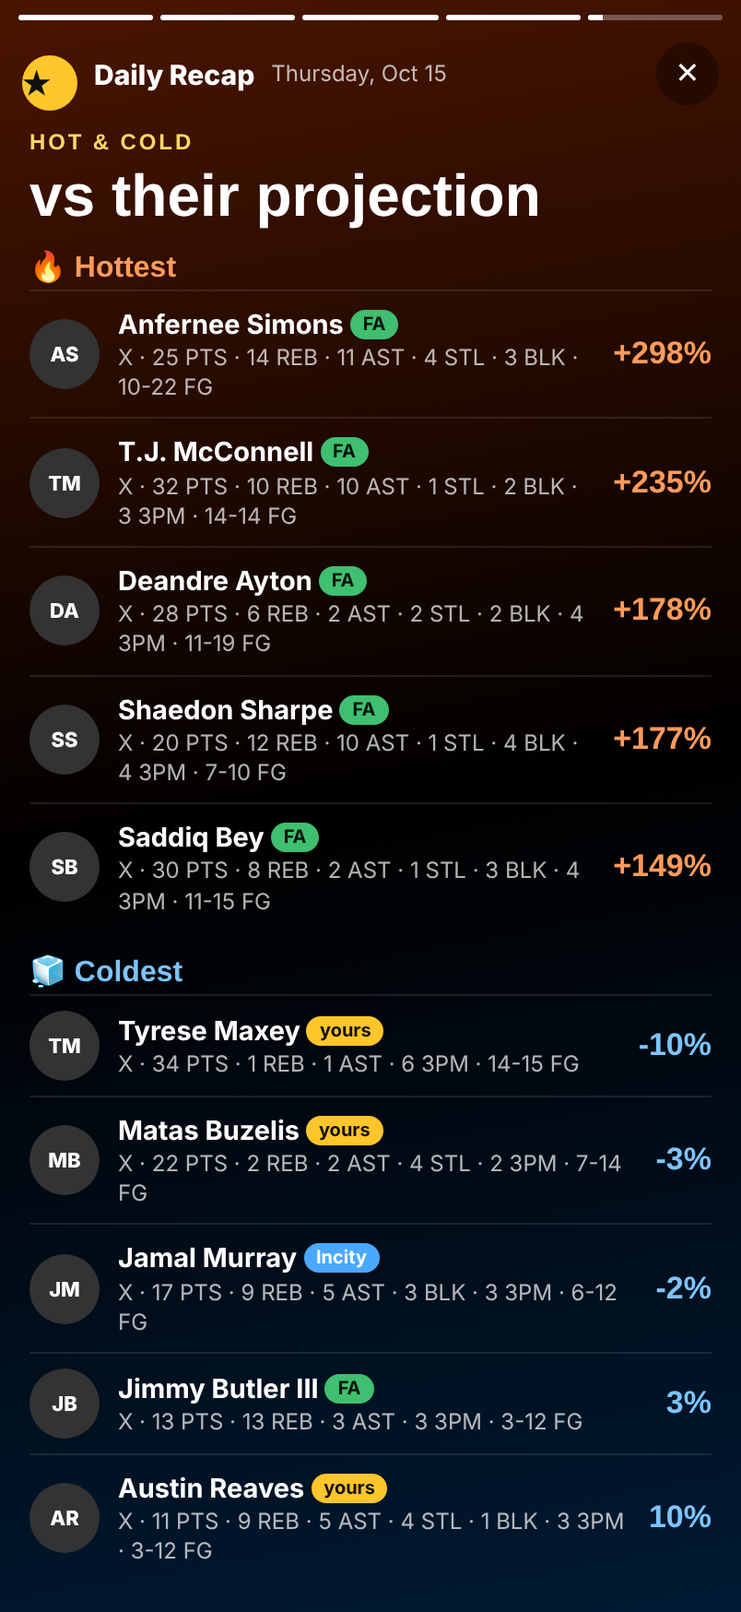
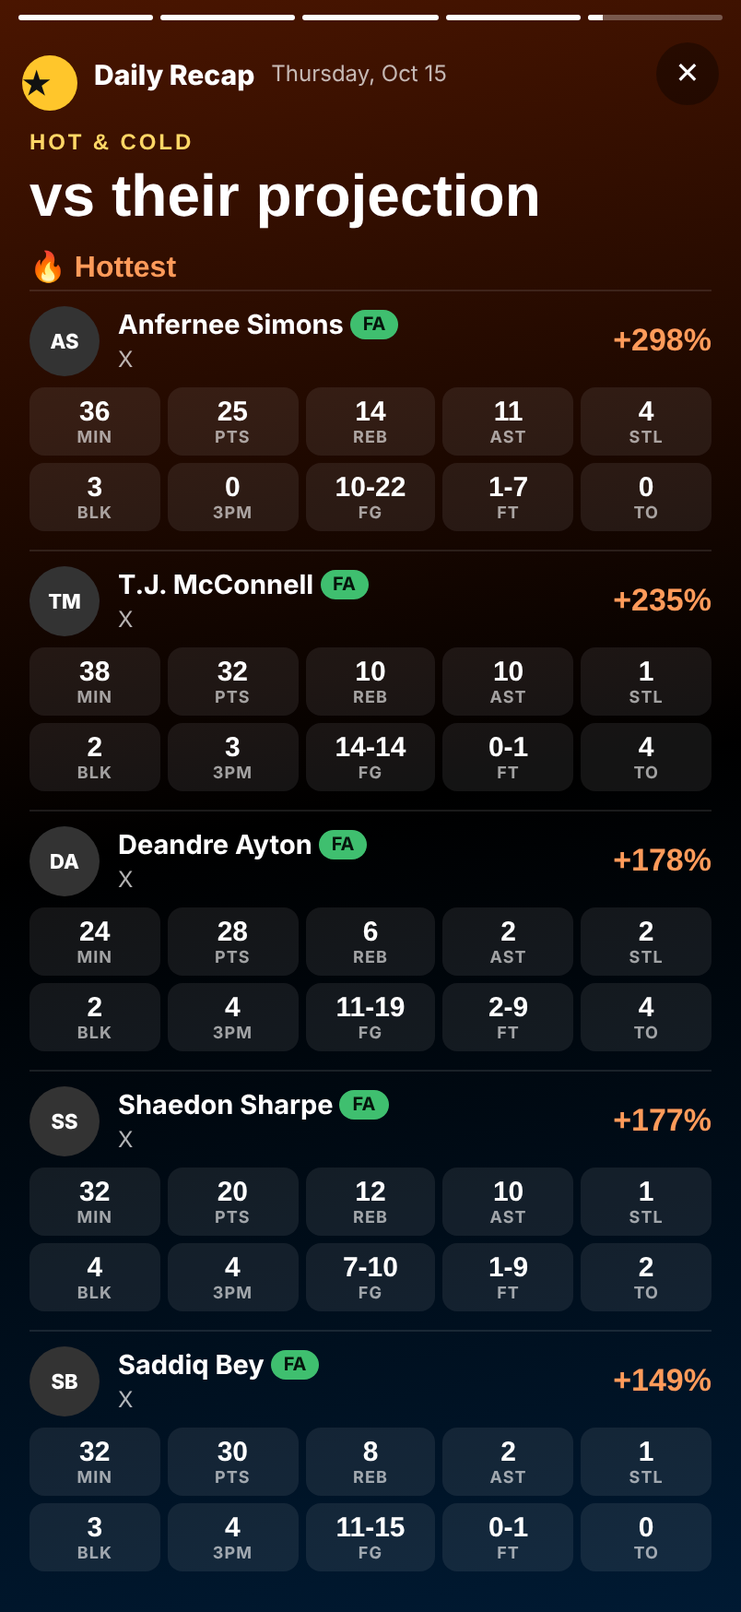
Stories stat grids; NBA top performers photos + rank; leaders full stat lines
Claude-Session: https://claude.ai/code/session_01Bze7554zYTgci3mfzKEDgc

diff --git a/classic.html b/classic.html
@@ -1252,6 +1252,37 @@ html body .hdstk.fphd .fphtabs button{font-size:13.5px!important}
 #fphc .nhlr b{font:700 16px system-ui;flex:1;min-width:0;white-space:nowrap;overflow:hidden;text-overflow:ellipsis}#fphc .nhlr small{color:#8e9096;font-size:12px}
 #fphc .nhlr .v{font:900 20px "Roboto Condensed",sans-serif;min-width:36px;text-align:right}
 #fphc .nhlr.me b{color:#ffd766}#fphc .nhlr.op b{color:#9fd0ff}
+#fpsv .spr2{border-top:1px solid rgba(255,255,255,.1);padding:8px 0 10px}
+#fpsv .spr2 .spr{border-top:0;padding:0 0 6px}
+#fpsv .sgr{display:grid;grid-template-columns:repeat(5,minmax(0,1fr));gap:4px}
+#fpsv .sgr.p{grid-template-columns:repeat(4,minmax(0,1fr))}
+#fpsv .sgr div{background:rgba(255,255,255,.08);border-radius:8px;padding:5px 2px 4px;text-align:center}
+#fpsv .sgr b{display:block;font:800 15px "Roboto Condensed",sans-serif;font-variant-numeric:tabular-nums;color:#fff}
+#fpsv .sgr small{display:block;font:700 9px system-ui;letter-spacing:.06em;color:rgba(255,255,255,.6)}
+#fpsv .sgr div.on{background:rgba(255,198,43,.25);box-shadow:inset 0 0 0 1px rgba(255,198,43,.6)}#fpsv .sgr div.on b{color:#ffd766}
+#fpsv .sgl{font:800 10.5px system-ui;letter-spacing:.08em;text-transform:uppercase;color:rgba(255,255,255,.6);margin:8px 0 4px}#fpsv .sgl.y{color:#ffd766}
+#fpsv .cv{font:900 24px "Roboto Condensed",sans-serif;color:#ffd766}
+#fpsv .scc .spr2:first-of-type{border-top:0}
+#fphc .nht .pn{display:flex;align-items:center;gap:7px;min-width:0}
+#fphc .nht .pn .rk{font:700 12px system-ui;font-style:normal;color:#8e9096;width:16px;flex:none;text-align:left}
+#fphc .nht .pn img,#fphc .nht .pn i{width:30px;height:30px;border-radius:50%;object-fit:cover;object-position:top;background:#2a2b30;flex:none}
+#fphc .nht .pn .nm{min-width:0;overflow:hidden;text-overflow:ellipsis;text-align:left}
+#fphc .nht .hr span:first-child{padding-left:53px}
+#fphc .nhlr{align-items:flex-start}#fphc .nhlr .k{padding-top:8px}
+#fphc .nhlr .m{flex:1;min-width:0}
+#fphc .nhlr .m>b{display:block;font:700 16px system-ui;white-space:nowrap;overflow:hidden;text-overflow:ellipsis}
+#fphc .nhlr .m>b small{font:500 12px system-ui;color:#8e9096;margin-left:4px}
+#fphc .nhlr .ls{display:flex;flex-wrap:wrap;gap:3px 9px;margin-top:4px;font:600 10px system-ui;color:#8e9096;letter-spacing:.02em}
+#fphc .nhlr .ls b{font:700 13px "Roboto Condensed",sans-serif;color:#d6d7db;margin-right:2px;font-variant-numeric:tabular-nums}
+#fphc .nhlr .ls .on,#fphc .nhlr .ls .on b{color:#ffc62b}
+#fphc .nhlr .v{padding-top:4px}
+#fphc .nht .hr,#fphc .nht .tr{grid-template-columns:minmax(0,1fr) repeat(6,25px) 44px;column-gap:3px}
+#fphc .nht .pn{position:relative;gap:6px;padding-left:2px}
+#fphc .nht .pn .rk{position:absolute;left:-3px;top:-4px;z-index:1;width:auto;min-width:15px;height:15px;line-height:15px;border-radius:8px;padding:0 3px;background:#ffc62b;color:#111;font:800 9.5px system-ui;text-align:center;box-shadow:0 0 0 2px #141416}
+#fphc .nht .pn img,#fphc .nht .pn i{width:28px;height:28px}
+#fphc .nht .pn .nm{font-size:13.5px}
+#fphc .nht .hr span:first-child{padding-left:36px}
+#fphc .nht .pn{overflow:visible}#fphc .nht .pn .nm small{text-align:left}
 </style>
 <div class="stage">
  <aside class="side"><h1>Fantasy Plus <span>for iPhone</span></h1><p>Design of the iPhone app. Tap around, it all works: the tabs, the players, the trade builder.</p><ul><li><b>Home</b>: score, last night, this week's review, category ranks, waivers. Tap the score for the full game.</li><li><b>Team</b>: roster and player cards</li><li><b>Matchup</b>: ESPN-style category table with our ball logic</li><li><b>More</b>: rankings and settings</li><li><b>Trades</b>: your market and the builder</li></ul><p>Numbers are a snapshot of your Anti-Quemo league (preseason projections). Photos show as initials here; the app uses real headshots.</p><p>On your phone, open this link directly and it fills the screen.</p></aside>
@@ -2061,9 +2092,11 @@ async function loadNight(){
 }
 function getData(){if(DATA)return Promise.resolve(DATA);if(!LOADING)LOADING=loadNight().then(d=>(DATA=d)).catch(()=>({empty:true}));return LOADING}
 const line=r=>[`${r.PTS} PTS`,`${r.REB} REB`,`${r.AST} AST`,r.STL?`${r.STL} STL`:"",r.BLK?`${r.BLK} BLK`:"",r["3PM"]?`${r["3PM"]} 3PM`:"",`${r.FGM}-${r.FGA} FG`].filter(Boolean).join(" · ");
+const grid=(r,hl)=>`<div class="sgr">${[["MIN",r.MIN],["PTS",r.PTS],["REB",r.REB],["AST",r.AST],["STL",r.STL],["BLK",r.BLK],["3PM",r["3PM"]],["FG",r.FGM+"-"+r.FGA],["FT",r.FTM+"-"+r.FTA],["TO",r.TO]].map(([k,v])=>`<div class="${k===hl?"on":""}"><b>${v}</b><small>${k}</small></div>`).join("")}</div>`;
+const pgrid=(pl)=>`<div class="sgr p">${[["PTS",pl.PTS],["REB",pl.REB],["AST",pl.AST],["STL",pl.STL],["BLK",pl.BLK],["3PM",pl["3PM"]],["FG%",pl["FG%"]!=null?String((+pl["FG%"]).toFixed(3)).replace(/^0/,""):"–"],["FT%",pl["FT%"]!=null?String((+pl["FT%"]).toFixed(3)).replace(/^0/,""):"–"]].map(([k,v])=>`<div><b>${v??"–"}</b><small>${k}</small></div>`).join("")}</div>`;
 const tag=(r,X)=>r.own===X.my?'<span class="sst me">yours</span>':r.own===X.opp?`<span class="sst op">${esc((HDX.D.opp||"").split(" ")[0])}</span>`:r.own?"":'<span class="sst fa">FA</span>';
 const pimg=(r,s=38)=>`<span class="spi" style="width:${s}px;height:${s}px;background:${tcol(r.t)[0]}">${ph(r.id)?`<img src="${ph(r.id)}" alt="" onerror="this.remove()">`:""}<i>${esc(r.n.split(" ").map(w=>w[0]).join("").slice(0,2))}</i></span>`;
-const prow=(r,X,i,extra)=>`<div class="spr">${i!=null?`<b class="k">${i+1}</b>`:""}${pimg(r)}<div class="m"><b>${esc(r.n)} ${tag(r,X)}</b><small>${esc(r.t)} · ${line(r)}</small></div>${extra||`<span class="fv">${r.fv.toFixed(1)}</span>`}</div>`;
+const prow=(r,X,i,extra,hl)=>`<div class="spr2"><div class="spr">${i!=null?`<b class="k">${i+1}</b>`:""}${pimg(r)}<div class="m"><b>${esc(r.n)} ${tag(r,X)}</b><small>${esc(r.t)}</small></div>${extra||`<span class="fv">${r.fv.toFixed(1)}</span>`}</div>${grid(r,hl)}</div>`;
 const dayLabel=d=>{const x=new Date(d.slice(0,4)+"-"+d.slice(4,6)+"-"+d.slice(6)+"T12:00");return x.toLocaleDateString("en-US",{weekday:"long",month:"short",day:"numeric"})};
 // ---------- slides ----------
 function recapSlides(X){const D=HDX.D,mine=X.all.filter(r=>r.own===X.my),opp=X.all.filter(r=>r.own===X.opp);
@@ -2078,20 +2111,20 @@ function recapSlides(X){const D=HDX.D,mine=X.all.filter(r=>r.own===X.my),opp=X.a
  S.push({bg:"linear-gradient(170deg,#1f2a44,#000 75%)",h:`<div class="scap">Around the league</div><div class="sbig">Who had the best night</div><div class="ssub">Fantasy output of every team's players last night</div>${teams.map((x,i)=>`<div class="slg ${x.t.id===X.my?"me":x.t.id===X.opp?"op":""}"><b class="k">${i+1}</b><div class="m"><b>${esc(x.t.name)}</b><small>${x.b.n} played${x.b.best?` · best: ${esc(last(x.b.best.n))} ${x.b.best.fv.toFixed(1)}`:""}</small><div class="bar"><i style="width:${x.b.fv/mx*100}%"></i></div></div><span class="fv">${x.b.fv.toFixed(1)}</span></div>`).join("")}`});
  const top=[...X.all].sort((a,b)=>b.fv-a.fv).slice(0,10);
  S.push({bg:"radial-gradient(circle at 50% 0,#3a2a00,#000 65%)",h:`<div class="scap">Top 10 of the night</div><div class="sbig">${esc(top[0]?top[0].n:"")}</div><div class="ssub">${top[0]?line(top[0]):""}</div>${top.map((r,i)=>prow(r,X,i)).join("")}`});
- S.push({bg:"linear-gradient(170deg,#2b1a4a,#000 75%)",h:`<div class="scap">Category leaders</div><div class="sbig">Who owned each stat</div><div class="scats">${CNT.map(c=>{const t=[...X.all].sort((a,b)=>b[c]-a[c]).slice(0,3);return `<div class="scc"><div class="cc">${c}</div>${t.map((r,i)=>`<div class="sccr ${r.own===X.my?"me":r.own===X.opp?"op":""}"><span>${i+1}</span>${pimg(r,26)}<div class="m"><b>${esc(last(r.n))}</b><small>${line(r)}</small></div><b class="v">${r[c]}</b></div>`).join("")}</div>`}).join("")}</div>`});
+ S.push({bg:"linear-gradient(170deg,#2b1a4a,#000 75%)",h:`<div class="scap">Category leaders</div><div class="sbig">Who owned each stat</div><div class="scats">${CNT.map(c=>{const t=[...X.all].sort((a,b)=>b[c]-a[c]).slice(0,3);return `<div class="scc"><div class="cc">${c}</div>${t.map((r,i)=>prow(r,X,i,`<b class="cv">${r[c]}</b>`,c)).join("")}</div>`}).join("")}</div>`});
  const withP=X.all.filter(r=>r.hot!=null&&r.MIN>=10),hot=[...withP].sort((a,b)=>b.hot-a.hot).slice(0,5),cold=[...withP].sort((a,b)=>a.hot-b.hot).slice(0,5);
  S.push({bg:"linear-gradient(170deg,#4a1500,#000 50%,#001a33)",h:`<div class="scap">Hot & cold</div><div class="sbig">vs their projection</div><div class="shc h">🔥 Hottest</div>${hot.map(r=>prow(r,X,null,`<span class="pct up">+${r.hot}%</span>`)).join("")||'<p class="sno">No projections to compare yet.</p>'}<div class="shc c">🧊 Coldest</div>${cold.map(r=>prow(r,X,null,`<span class="pct dn">${r.hot}%</span>`)).join("")}`});
  return S}
 function waiverSlides(X){const D=HDX.D,fa=X.all.filter(r=>!r.own),S=[];
  const top=[...fa].sort((a,b)=>b.fv-a.fv).slice(0,10);
  S.push({bg:"linear-gradient(170deg,#0b3d23,#000 75%)",h:`<div class="scap">Waiver watch · ${esc(dayLabel(X.day))}</div><div class="sbig">Top 10 free agents last night</div><div class="ssub">Not on any team in your league</div>${top.map((r,i)=>prow(r,X,i)).join("")||'<p class="sno">No free agents played.</p>'}`});
- S.push({bg:"linear-gradient(170deg,#0d3340,#000 75%)",h:`<div class="scap">Free-agent leaders</div><div class="sbig">Best available by stat</div><div class="scats">${CNT.map(c=>{const t=[...fa].sort((a,b)=>b[c]-a[c]).slice(0,3);return `<div class="scc"><div class="cc">${c}</div>${t.map((r,i)=>`<div class="sccr"><span>${i+1}</span>${pimg(r,26)}<div class="m"><b>${esc(last(r.n))}</b><small>${line(r)}</small></div><b class="v">${r[c]}</b></div>`).join("")}</div>`}).join("")}</div>`});
+ S.push({bg:"linear-gradient(170deg,#0d3340,#000 75%)",h:`<div class="scap">Free-agent leaders</div><div class="sbig">Best available by stat</div><div class="scats">${CNT.map(c=>{const t=[...fa].sort((a,b)=>b[c]-a[c]).slice(0,3);return `<div class="scc"><div class="cc">${c}</div>${t.map((r,i)=>prow(r,X,i,`<b class="cv">${r[c]}</b>`,c)).join("")}</div>`}).join("")}</div>`});
  const hot=fa.filter(r=>r.hot!=null&&r.MIN>=10).sort((a,b)=>b.hot-a.hot).slice(0,6);
  S.push({bg:"linear-gradient(170deg,#4a2a00,#000 75%)",h:`<div class="scap">Breakouts</div><div class="sbig">Free agents way above projection</div><div class="ssub">Played much better than expected. Worth a look before others notice.</div>${hot.map(r=>prow(r,X,null,`<span class="pct up">+${r.hot}%</span>`)).join("")||'<p class="sno">No free-agent breakouts last night.</p>'}`});
  const P=(D.M||{}).probs||{},lose=CATS.filter(c=>P[c]!=null&&P[c]<.5).sort((a,b)=>P[a]-P[b]).slice(0,4);
  const recs=lose.map(c=>{const L=Object.entries(X.wz).filter(([id])=>!X.owner[id]).map(([id,w])=>({id,...w,zc:(w.z||{})[c]||0})).sort((a,b)=>b.zc-a.zc).slice(0,3);return {c,L}});
  const byId={};X.all.forEach(r=>byId[r.id]=r);
- S.push({bg:"linear-gradient(115deg,#7B5236,#000 60%)",h:`<div class="scap">Good for your matchup</div><div class="sbig">${lose.length?`Fix ${lose.join(", ")}`:"You're ahead everywhere"}</div><div class="ssub">Categories you're behind in vs ${esc(D.opp)}, with 3 free agents for each</div>${recs.map(g=>`<div class="srec"><div class="cc">${g.c} <span>${Math.round((P[g.c]||0)*100)}% to win</span></div>${g.L.map(p=>{const pl=p.line||{},ln=byId[p.id];return `<div class="spr">${pimg({id:p.id,n:p.name||"",t:p.nba},34)}<div class="m"><b>${esc(p.name)} <span class="sst fa">${p.own!=null?p.own+"%":"FA"}</span></b><small>${esc(p.nba||"")} · proj ${pl.PTS??"–"} PTS · ${pl.REB??"–"} REB · ${pl.AST??"–"} AST · ${pl.STL??"–"} STL · ${pl.BLK??"–"} BLK · ${pl["3PM"]??"–"} 3PM</small>${ln?`<small class="ln">last night: ${line(ln)}</small>`:""}</div><span class="fv">${g.c.endsWith("%")?(pl[g.c]!=null?String(pl[g.c].toFixed(3)).replace(/^0/,""):"–"):(pl[g.c]??"–")}</span></div>`}).join("")}</div>`).join("")}`});
+ S.push({bg:"linear-gradient(115deg,#7B5236,#000 60%)",h:`<div class="scap">Good for your matchup</div><div class="sbig">${lose.length?`Fix ${lose.join(", ")}`:"You're ahead everywhere"}</div><div class="ssub">Categories you're behind in vs ${esc(D.opp)}, with 3 free agents for each</div>${recs.map(g=>`<div class="srec"><div class="cc">${g.c} <span>${Math.round((P[g.c]||0)*100)}% to win</span></div>${g.L.map(p=>{const pl=p.line||{},ln=byId[p.id];return `<div class="spr">${pimg({id:p.id,n:p.name||"",t:p.nba},34)}<div class="m"><b>${esc(p.name)} <span class="sst fa">${p.own!=null?p.own+"%":"FA"}</span></b><small>${esc(p.nba||"")}</small></div><span class="fv">${g.c.endsWith("%")?(pl[g.c]!=null?String(pl[g.c].toFixed(3)).replace(/^0/,""):"–"):(pl[g.c]??"–")}</span></div><div class="sgl">Projection per game</div>${pgrid(pl)}${ln?`<div class="sgl y">Last night</div>${grid(ln,g.c==="FG%"?"FG":g.c==="FT%"?"FT":g.c)}`:""}`}).join("")}</div>`).join("")}`});
  return S}
 // ---------- viewer ----------
 let V=null;
@@ -2142,7 +2175,7 @@ let DOFF=-1,GOPEN=true;const BX={};
 const dname=o=>{const d=new Date(Date.now()-4*3600e3+o*864e5);const w=d.toLocaleDateString("en-US",{timeZone:"UTC",weekday:"short",month:"short",day:"numeric"}).replace(",","");return (o===-1?"Yesterday":o===0?"Today":o===1?"Tomorrow":w.split(" ")[0])+" · "+w};
 async function box(id){if(BX[id])return BX[id];const j=await (await fetch(`${SITE}/summary?event=${id}`)).json();const out=[];
  ((j.boxscore||{}).players||[]).forEach(t=>{const ab=(t.team||{}).abbreviation;(t.statistics||[]).forEach(sg=>{const k=sg.keys||[];(sg.athletes||[]).forEach(a=>{if(!a.stats||!a.stats.length||a.didNotPlay)return;const v=n=>{const i=k.indexOf(n);return i<0?0:a.stats[i]};const sp=x=>String(x||"0-0").split("-").map(Number);
-  const r={id:String((a.athlete||{}).id||""),n:(a.athlete||{}).displayName||"",t:ab,PTS:+v("points")||0,REB:+v("rebounds")||0,AST:+v("assists")||0,STL:+v("steals")||0,BLK:+v("blocks")||0,TO:+v("turnovers")||0,"3PM":sp(v("threePointFieldGoalsMade-threePointFieldGoalsAttempted"))[0]||0,FG:v("fieldGoalsMade-fieldGoalsAttempted")};
+  const r={id:String((a.athlete||{}).id||""),n:(a.athlete||{}).displayName||"",t:ab,PTS:+v("points")||0,REB:+v("rebounds")||0,AST:+v("assists")||0,STL:+v("steals")||0,BLK:+v("blocks")||0,TO:+v("turnovers")||0,"3PM":sp(v("threePointFieldGoalsMade-threePointFieldGoalsAttempted"))[0]||0,FG:v("fieldGoalsMade-fieldGoalsAttempted"),FT:v("freeThrowsMade-freeThrowsAttempted"),MIN:v("minutes")||0};
   r.fv=+((r.PTS+1.2*r.REB+1.5*r.AST+3*r.STL+3*r.BLK+r["3PM"]-r.TO)/5).toFixed(1);out.push(r)})})});
  if(j.header&&((j.header.competitions||[])[0]||{}).status&&j.header.competitions[0].status.type.state==="post")BX[id]=out;return out}
 function spread(c){const o=(c.odds||[])[0];if(!o||!o.details)return"";const m=String(o.details).match(/^([A-Z]+)\s*-([\d.]+)/);return m?`${m[1]} by ${m[2]}`:(/EVEN|PK/i.test(o.details)?"Even":o.details)}
@@ -2176,10 +2209,10 @@ async function scores(box_){const B=box_;clearInterval(timer);
  const pills=(cur,attr)=>`<div class="nhpl">${["VAL",...cats].map(c=>`<button ${attr}="${c}" class="${c===cur?"on":""}">${c}</button>`).join("")}</div>`;
  const key=c=>c==="VAL"?"fv":c;
  const drawTop=()=>{const c=window.__nhTop||"VAL",k=key(c),T=[...all].sort((a,b)=>b[k]-a[k]||b.fv-a.fv).slice(0,10);
-  BB.innerHTML=`<div class="nhcard"><div class="nhh"><b>Top performers</b><span>${DOFF===0?"tonight":"last night"}</span></div>${pills(c,"data-tp")}<div class="nht"><div class="hr"><span>Player</span>${cats.map(x=>`<span class="${x===c?"on":""}">${x}</span>`).join("")}<span class="${c==="VAL"?"on":""}">VAL</span></div>${T.map(p=>`<div class="tr ${cls(p)}"><span class="pn">${esc(last(p.n))}<small>${esc(p.t)}</small></span>${cats.map(x=>`<span class="${x===c?"on":""}">${p[x]}</span>`).join("")}<span class="vl ${c==="VAL"?"on":""}">+${p.fv}</span></div>`).join("")}</div></div>`;
+  BB.innerHTML=`<div class="nhcard"><div class="nhh"><b>Top performers</b><span>${DOFF===0?"tonight":"last night"}</span></div>${pills(c,"data-tp")}<div class="nht"><div class="hr"><span>Player</span>${cats.map(x=>`<span class="${x===c?"on":""}">${x}</span>`).join("")}<span class="${c==="VAL"?"on":""}">VAL</span></div>${T.map((p,i)=>`<div class="tr ${cls(p)}"><span class="pn"><em class="rk">${i+1}</em>${ph(p.id)?`<img src="${ph(p.id)}" alt="" onerror="this.replaceWith(Object.assign(document.createElement('i'),{}))">`:`<i></i>`}<span class="nm">${esc(last(p.n))}<small>${esc(p.t)}</small></span></span>${cats.map(x=>`<span class="${x===c?"on":""}">${p[x]}</span>`).join("")}<span class="vl ${c==="VAL"?"on":""}">+${p.fv}</span></div>`).join("")}</div></div>`;
   BB.querySelectorAll("[data-tp]").forEach(b=>b.onclick=e=>{e.stopPropagation();window.__nhTop=b.dataset.tp;drawTop()})};
  const drawLead=()=>{const c=window.__nhLd||"PTS",T=[...all].sort((a,b)=>b[c]-a[c]).slice(0,5);
-  L.innerHTML=`<div class="nhcard"><div class="nhh"><b>Leaders</b><span>top 5</span></div><div class="nhpl">${cats.map(x=>`<button data-ld="${x}" class="${x===c?"on":""}">${x}</button>`).join("")}</div>${T.map((p,i)=>`<div class="nhlr ${cls(p)}"><span class="k">${i+1}</span>${ph(p.id)?`<img src="${ph(p.id)}" alt="" onerror="this.remove()">`:`<i></i>`}<b>${esc(p.n)}</b><small>${esc(p.t)}</small><span class="v">${p[c]}</span></div>`).join("")}</div>`;
+  L.innerHTML=`<div class="nhcard"><div class="nhh"><b>Leaders</b><span>top 5</span></div><div class="nhpl">${cats.map(x=>`<button data-ld="${x}" class="${x===c?"on":""}">${x}</button>`).join("")}</div>${T.map((p,i)=>`<div class="nhlr ${cls(p)}"><span class="k">${i+1}</span>${ph(p.id)?`<img src="${ph(p.id)}" alt="" onerror="this.remove()">`:`<i></i>`}<div class="m"><b>${esc(p.n)} <small>${esc(p.t)}</small></b><div class="ls">${[["MIN",p.MIN],["PTS",p.PTS],["REB",p.REB],["AST",p.AST],["STL",p.STL],["BLK",p.BLK],["3PM",p["3PM"]],["FG",p.FG||"0-0"],["FT",p.FT||"0-0"],["TO",p.TO]].map(([k,v])=>`<span class="${k===c?"on":""}"><b>${v}</b>${k}</span>`).join("")}</div></div><span class="v">${p[c]}</span></div>`).join("")}</div>`;
   L.querySelectorAll("[data-ld]").forEach(b=>b.onclick=e=>{e.stopPropagation();window.__nhLd=b.dataset.ld;drawLead()})};
  B.insertBefore(BB,L);drawTop();drawLead()}
 // ---------- League ----------

diff --git a/index.html b/index.html
@@ -1304,6 +1304,37 @@ html body .hdstk.fphd .fphtabs button{font-size:13.5px!important}
 #fphc .nhlr b{font:700 16px system-ui;flex:1;min-width:0;white-space:nowrap;overflow:hidden;text-overflow:ellipsis}#fphc .nhlr small{color:#8e9096;font-size:12px}
 #fphc .nhlr .v{font:900 20px "Roboto Condensed",sans-serif;min-width:36px;text-align:right}
 #fphc .nhlr.me b{color:#ffd766}#fphc .nhlr.op b{color:#9fd0ff}
+#fpsv .spr2{border-top:1px solid rgba(255,255,255,.1);padding:8px 0 10px}
+#fpsv .spr2 .spr{border-top:0;padding:0 0 6px}
+#fpsv .sgr{display:grid;grid-template-columns:repeat(5,minmax(0,1fr));gap:4px}
+#fpsv .sgr.p{grid-template-columns:repeat(4,minmax(0,1fr))}
+#fpsv .sgr div{background:rgba(255,255,255,.08);border-radius:8px;padding:5px 2px 4px;text-align:center}
+#fpsv .sgr b{display:block;font:800 15px "Roboto Condensed",sans-serif;font-variant-numeric:tabular-nums;color:#fff}
+#fpsv .sgr small{display:block;font:700 9px system-ui;letter-spacing:.06em;color:rgba(255,255,255,.6)}
+#fpsv .sgr div.on{background:rgba(255,198,43,.25);box-shadow:inset 0 0 0 1px rgba(255,198,43,.6)}#fpsv .sgr div.on b{color:#ffd766}
+#fpsv .sgl{font:800 10.5px system-ui;letter-spacing:.08em;text-transform:uppercase;color:rgba(255,255,255,.6);margin:8px 0 4px}#fpsv .sgl.y{color:#ffd766}
+#fpsv .cv{font:900 24px "Roboto Condensed",sans-serif;color:#ffd766}
+#fpsv .scc .spr2:first-of-type{border-top:0}
+#fphc .nht .pn{display:flex;align-items:center;gap:7px;min-width:0}
+#fphc .nht .pn .rk{font:700 12px system-ui;font-style:normal;color:#8e9096;width:16px;flex:none;text-align:left}
+#fphc .nht .pn img,#fphc .nht .pn i{width:30px;height:30px;border-radius:50%;object-fit:cover;object-position:top;background:#2a2b30;flex:none}
+#fphc .nht .pn .nm{min-width:0;overflow:hidden;text-overflow:ellipsis;text-align:left}
+#fphc .nht .hr span:first-child{padding-left:53px}
+#fphc .nhlr{align-items:flex-start}#fphc .nhlr .k{padding-top:8px}
+#fphc .nhlr .m{flex:1;min-width:0}
+#fphc .nhlr .m>b{display:block;font:700 16px system-ui;white-space:nowrap;overflow:hidden;text-overflow:ellipsis}
+#fphc .nhlr .m>b small{font:500 12px system-ui;color:#8e9096;margin-left:4px}
+#fphc .nhlr .ls{display:flex;flex-wrap:wrap;gap:3px 9px;margin-top:4px;font:600 10px system-ui;color:#8e9096;letter-spacing:.02em}
+#fphc .nhlr .ls b{font:700 13px "Roboto Condensed",sans-serif;color:#d6d7db;margin-right:2px;font-variant-numeric:tabular-nums}
+#fphc .nhlr .ls .on,#fphc .nhlr .ls .on b{color:#ffc62b}
+#fphc .nhlr .v{padding-top:4px}
+#fphc .nht .hr,#fphc .nht .tr{grid-template-columns:minmax(0,1fr) repeat(6,25px) 44px;column-gap:3px}
+#fphc .nht .pn{position:relative;gap:6px;padding-left:2px}
+#fphc .nht .pn .rk{position:absolute;left:-3px;top:-4px;z-index:1;width:auto;min-width:15px;height:15px;line-height:15px;border-radius:8px;padding:0 3px;background:#ffc62b;color:#111;font:800 9.5px system-ui;text-align:center;box-shadow:0 0 0 2px #141416}
+#fphc .nht .pn img,#fphc .nht .pn i{width:28px;height:28px}
+#fphc .nht .pn .nm{font-size:13.5px}
+#fphc .nht .hr span:first-child{padding-left:36px}
+#fphc .nht .pn{overflow:visible}#fphc .nht .pn .nm small{text-align:left}
 </style>
 <div class="stage">
  <aside class="side"><h1>Fantasy Plus <span>for iPhone</span></h1><p>Design of the iPhone app. Tap around, it all works: the tabs, the players, the trade builder.</p><ul><li><b>Home</b>: score, last night, this week's review, category ranks, waivers. Tap the score for the full game.</li><li><b>Team</b>: roster and player cards</li><li><b>Matchup</b>: ESPN-style category table with our ball logic</li><li><b>More</b>: rankings and settings</li><li><b>Trades</b>: your market and the builder</li></ul><p>Numbers are a snapshot of your Anti-Quemo league (preseason projections). Photos show as initials here; the app uses real headshots.</p><p>On your phone, open this link directly and it fills the screen.</p></aside>
@@ -2113,9 +2144,11 @@ async function loadNight(){
 }
 function getData(){if(DATA)return Promise.resolve(DATA);if(!LOADING)LOADING=loadNight().then(d=>(DATA=d)).catch(()=>({empty:true}));return LOADING}
 const line=r=>[`${r.PTS} PTS`,`${r.REB} REB`,`${r.AST} AST`,r.STL?`${r.STL} STL`:"",r.BLK?`${r.BLK} BLK`:"",r["3PM"]?`${r["3PM"]} 3PM`:"",`${r.FGM}-${r.FGA} FG`].filter(Boolean).join(" · ");
+const grid=(r,hl)=>`<div class="sgr">${[["MIN",r.MIN],["PTS",r.PTS],["REB",r.REB],["AST",r.AST],["STL",r.STL],["BLK",r.BLK],["3PM",r["3PM"]],["FG",r.FGM+"-"+r.FGA],["FT",r.FTM+"-"+r.FTA],["TO",r.TO]].map(([k,v])=>`<div class="${k===hl?"on":""}"><b>${v}</b><small>${k}</small></div>`).join("")}</div>`;
+const pgrid=(pl)=>`<div class="sgr p">${[["PTS",pl.PTS],["REB",pl.REB],["AST",pl.AST],["STL",pl.STL],["BLK",pl.BLK],["3PM",pl["3PM"]],["FG%",pl["FG%"]!=null?String((+pl["FG%"]).toFixed(3)).replace(/^0/,""):"–"],["FT%",pl["FT%"]!=null?String((+pl["FT%"]).toFixed(3)).replace(/^0/,""):"–"]].map(([k,v])=>`<div><b>${v??"–"}</b><small>${k}</small></div>`).join("")}</div>`;
 const tag=(r,X)=>r.own===X.my?'<span class="sst me">yours</span>':r.own===X.opp?`<span class="sst op">${esc((HDX.D.opp||"").split(" ")[0])}</span>`:r.own?"":'<span class="sst fa">FA</span>';
 const pimg=(r,s=38)=>`<span class="spi" style="width:${s}px;height:${s}px;background:${tcol(r.t)[0]}">${ph(r.id)?`<img src="${ph(r.id)}" alt="" onerror="this.remove()">`:""}<i>${esc(r.n.split(" ").map(w=>w[0]).join("").slice(0,2))}</i></span>`;
-const prow=(r,X,i,extra)=>`<div class="spr">${i!=null?`<b class="k">${i+1}</b>`:""}${pimg(r)}<div class="m"><b>${esc(r.n)} ${tag(r,X)}</b><small>${esc(r.t)} · ${line(r)}</small></div>${extra||`<span class="fv">${r.fv.toFixed(1)}</span>`}</div>`;
+const prow=(r,X,i,extra,hl)=>`<div class="spr2"><div class="spr">${i!=null?`<b class="k">${i+1}</b>`:""}${pimg(r)}<div class="m"><b>${esc(r.n)} ${tag(r,X)}</b><small>${esc(r.t)}</small></div>${extra||`<span class="fv">${r.fv.toFixed(1)}</span>`}</div>${grid(r,hl)}</div>`;
 const dayLabel=d=>{const x=new Date(d.slice(0,4)+"-"+d.slice(4,6)+"-"+d.slice(6)+"T12:00");return x.toLocaleDateString("en-US",{weekday:"long",month:"short",day:"numeric"})};
 // ---------- slides ----------
 function recapSlides(X){const D=HDX.D,mine=X.all.filter(r=>r.own===X.my),opp=X.all.filter(r=>r.own===X.opp);
@@ -2130,20 +2163,20 @@ function recapSlides(X){const D=HDX.D,mine=X.all.filter(r=>r.own===X.my),opp=X.a
  S.push({bg:"linear-gradient(170deg,#1f2a44,#000 75%)",h:`<div class="scap">Around the league</div><div class="sbig">Who had the best night</div><div class="ssub">Fantasy output of every team's players last night</div>${teams.map((x,i)=>`<div class="slg ${x.t.id===X.my?"me":x.t.id===X.opp?"op":""}"><b class="k">${i+1}</b><div class="m"><b>${esc(x.t.name)}</b><small>${x.b.n} played${x.b.best?` · best: ${esc(last(x.b.best.n))} ${x.b.best.fv.toFixed(1)}`:""}</small><div class="bar"><i style="width:${x.b.fv/mx*100}%"></i></div></div><span class="fv">${x.b.fv.toFixed(1)}</span></div>`).join("")}`});
  const top=[...X.all].sort((a,b)=>b.fv-a.fv).slice(0,10);
  S.push({bg:"radial-gradient(circle at 50% 0,#3a2a00,#000 65%)",h:`<div class="scap">Top 10 of the night</div><div class="sbig">${esc(top[0]?top[0].n:"")}</div><div class="ssub">${top[0]?line(top[0]):""}</div>${top.map((r,i)=>prow(r,X,i)).join("")}`});
- S.push({bg:"linear-gradient(170deg,#2b1a4a,#000 75%)",h:`<div class="scap">Category leaders</div><div class="sbig">Who owned each stat</div><div class="scats">${CNT.map(c=>{const t=[...X.all].sort((a,b)=>b[c]-a[c]).slice(0,3);return `<div class="scc"><div class="cc">${c}</div>${t.map((r,i)=>`<div class="sccr ${r.own===X.my?"me":r.own===X.opp?"op":""}"><span>${i+1}</span>${pimg(r,26)}<div class="m"><b>${esc(last(r.n))}</b><small>${line(r)}</small></div><b class="v">${r[c]}</b></div>`).join("")}</div>`}).join("")}</div>`});
+ S.push({bg:"linear-gradient(170deg,#2b1a4a,#000 75%)",h:`<div class="scap">Category leaders</div><div class="sbig">Who owned each stat</div><div class="scats">${CNT.map(c=>{const t=[...X.all].sort((a,b)=>b[c]-a[c]).slice(0,3);return `<div class="scc"><div class="cc">${c}</div>${t.map((r,i)=>prow(r,X,i,`<b class="cv">${r[c]}</b>`,c)).join("")}</div>`}).join("")}</div>`});
  const withP=X.all.filter(r=>r.hot!=null&&r.MIN>=10),hot=[...withP].sort((a,b)=>b.hot-a.hot).slice(0,5),cold=[...withP].sort((a,b)=>a.hot-b.hot).slice(0,5);
  S.push({bg:"linear-gradient(170deg,#4a1500,#000 50%,#001a33)",h:`<div class="scap">Hot & cold</div><div class="sbig">vs their projection</div><div class="shc h">🔥 Hottest</div>${hot.map(r=>prow(r,X,null,`<span class="pct up">+${r.hot}%</span>`)).join("")||'<p class="sno">No projections to compare yet.</p>'}<div class="shc c">🧊 Coldest</div>${cold.map(r=>prow(r,X,null,`<span class="pct dn">${r.hot}%</span>`)).join("")}`});
  return S}
 function waiverSlides(X){const D=HDX.D,fa=X.all.filter(r=>!r.own),S=[];
  const top=[...fa].sort((a,b)=>b.fv-a.fv).slice(0,10);
  S.push({bg:"linear-gradient(170deg,#0b3d23,#000 75%)",h:`<div class="scap">Waiver watch · ${esc(dayLabel(X.day))}</div><div class="sbig">Top 10 free agents last night</div><div class="ssub">Not on any team in your league</div>${top.map((r,i)=>prow(r,X,i)).join("")||'<p class="sno">No free agents played.</p>'}`});
- S.push({bg:"linear-gradient(170deg,#0d3340,#000 75%)",h:`<div class="scap">Free-agent leaders</div><div class="sbig">Best available by stat</div><div class="scats">${CNT.map(c=>{const t=[...fa].sort((a,b)=>b[c]-a[c]).slice(0,3);return `<div class="scc"><div class="cc">${c}</div>${t.map((r,i)=>`<div class="sccr"><span>${i+1}</span>${pimg(r,26)}<div class="m"><b>${esc(last(r.n))}</b><small>${line(r)}</small></div><b class="v">${r[c]}</b></div>`).join("")}</div>`}).join("")}</div>`});
+ S.push({bg:"linear-gradient(170deg,#0d3340,#000 75%)",h:`<div class="scap">Free-agent leaders</div><div class="sbig">Best available by stat</div><div class="scats">${CNT.map(c=>{const t=[...fa].sort((a,b)=>b[c]-a[c]).slice(0,3);return `<div class="scc"><div class="cc">${c}</div>${t.map((r,i)=>prow(r,X,i,`<b class="cv">${r[c]}</b>`,c)).join("")}</div>`}).join("")}</div>`});
  const hot=fa.filter(r=>r.hot!=null&&r.MIN>=10).sort((a,b)=>b.hot-a.hot).slice(0,6);
  S.push({bg:"linear-gradient(170deg,#4a2a00,#000 75%)",h:`<div class="scap">Breakouts</div><div class="sbig">Free agents way above projection</div><div class="ssub">Played much better than expected. Worth a look before others notice.</div>${hot.map(r=>prow(r,X,null,`<span class="pct up">+${r.hot}%</span>`)).join("")||'<p class="sno">No free-agent breakouts last night.</p>'}`});
  const P=(D.M||{}).probs||{},lose=CATS.filter(c=>P[c]!=null&&P[c]<.5).sort((a,b)=>P[a]-P[b]).slice(0,4);
  const recs=lose.map(c=>{const L=Object.entries(X.wz).filter(([id])=>!X.owner[id]).map(([id,w])=>({id,...w,zc:(w.z||{})[c]||0})).sort((a,b)=>b.zc-a.zc).slice(0,3);return {c,L}});
  const byId={};X.all.forEach(r=>byId[r.id]=r);
- S.push({bg:"linear-gradient(115deg,#7B5236,#000 60%)",h:`<div class="scap">Good for your matchup</div><div class="sbig">${lose.length?`Fix ${lose.join(", ")}`:"You're ahead everywhere"}</div><div class="ssub">Categories you're behind in vs ${esc(D.opp)}, with 3 free agents for each</div>${recs.map(g=>`<div class="srec"><div class="cc">${g.c} <span>${Math.round((P[g.c]||0)*100)}% to win</span></div>${g.L.map(p=>{const pl=p.line||{},ln=byId[p.id];return `<div class="spr">${pimg({id:p.id,n:p.name||"",t:p.nba},34)}<div class="m"><b>${esc(p.name)} <span class="sst fa">${p.own!=null?p.own+"%":"FA"}</span></b><small>${esc(p.nba||"")} · proj ${pl.PTS??"–"} PTS · ${pl.REB??"–"} REB · ${pl.AST??"–"} AST · ${pl.STL??"–"} STL · ${pl.BLK??"–"} BLK · ${pl["3PM"]??"–"} 3PM</small>${ln?`<small class="ln">last night: ${line(ln)}</small>`:""}</div><span class="fv">${g.c.endsWith("%")?(pl[g.c]!=null?String(pl[g.c].toFixed(3)).replace(/^0/,""):"–"):(pl[g.c]??"–")}</span></div>`}).join("")}</div>`).join("")}`});
+ S.push({bg:"linear-gradient(115deg,#7B5236,#000 60%)",h:`<div class="scap">Good for your matchup</div><div class="sbig">${lose.length?`Fix ${lose.join(", ")}`:"You're ahead everywhere"}</div><div class="ssub">Categories you're behind in vs ${esc(D.opp)}, with 3 free agents for each</div>${recs.map(g=>`<div class="srec"><div class="cc">${g.c} <span>${Math.round((P[g.c]||0)*100)}% to win</span></div>${g.L.map(p=>{const pl=p.line||{},ln=byId[p.id];return `<div class="spr">${pimg({id:p.id,n:p.name||"",t:p.nba},34)}<div class="m"><b>${esc(p.name)} <span class="sst fa">${p.own!=null?p.own+"%":"FA"}</span></b><small>${esc(p.nba||"")}</small></div><span class="fv">${g.c.endsWith("%")?(pl[g.c]!=null?String(pl[g.c].toFixed(3)).replace(/^0/,""):"–"):(pl[g.c]??"–")}</span></div><div class="sgl">Projection per game</div>${pgrid(pl)}${ln?`<div class="sgl y">Last night</div>${grid(ln,g.c==="FG%"?"FG":g.c==="FT%"?"FT":g.c)}`:""}`}).join("")}</div>`).join("")}`});
  return S}
 // ---------- viewer ----------
 let V=null;
@@ -2194,7 +2227,7 @@ let DOFF=-1,GOPEN=true;const BX={};
 const dname=o=>{const d=new Date(Date.now()-4*3600e3+o*864e5);const w=d.toLocaleDateString("en-US",{timeZone:"UTC",weekday:"short",month:"short",day:"numeric"}).replace(",","");return (o===-1?"Yesterday":o===0?"Today":o===1?"Tomorrow":w.split(" ")[0])+" · "+w};
 async function box(id){if(BX[id])return BX[id];const j=await (await fetch(`${SITE}/summary?event=${id}`)).json();const out=[];
  ((j.boxscore||{}).players||[]).forEach(t=>{const ab=(t.team||{}).abbreviation;(t.statistics||[]).forEach(sg=>{const k=sg.keys||[];(sg.athletes||[]).forEach(a=>{if(!a.stats||!a.stats.length||a.didNotPlay)return;const v=n=>{const i=k.indexOf(n);return i<0?0:a.stats[i]};const sp=x=>String(x||"0-0").split("-").map(Number);
-  const r={id:String((a.athlete||{}).id||""),n:(a.athlete||{}).displayName||"",t:ab,PTS:+v("points")||0,REB:+v("rebounds")||0,AST:+v("assists")||0,STL:+v("steals")||0,BLK:+v("blocks")||0,TO:+v("turnovers")||0,"3PM":sp(v("threePointFieldGoalsMade-threePointFieldGoalsAttempted"))[0]||0,FG:v("fieldGoalsMade-fieldGoalsAttempted")};
+  const r={id:String((a.athlete||{}).id||""),n:(a.athlete||{}).displayName||"",t:ab,PTS:+v("points")||0,REB:+v("rebounds")||0,AST:+v("assists")||0,STL:+v("steals")||0,BLK:+v("blocks")||0,TO:+v("turnovers")||0,"3PM":sp(v("threePointFieldGoalsMade-threePointFieldGoalsAttempted"))[0]||0,FG:v("fieldGoalsMade-fieldGoalsAttempted"),FT:v("freeThrowsMade-freeThrowsAttempted"),MIN:v("minutes")||0};
   r.fv=+((r.PTS+1.2*r.REB+1.5*r.AST+3*r.STL+3*r.BLK+r["3PM"]-r.TO)/5).toFixed(1);out.push(r)})})});
  if(j.header&&((j.header.competitions||[])[0]||{}).status&&j.header.competitions[0].status.type.state==="post")BX[id]=out;return out}
 function spread(c){const o=(c.odds||[])[0];if(!o||!o.details)return"";const m=String(o.details).match(/^([A-Z]+)\s*-([\d.]+)/);return m?`${m[1]} by ${m[2]}`:(/EVEN|PK/i.test(o.details)?"Even":o.details)}
@@ -2228,10 +2261,10 @@ async function scores(box_){const B=box_;clearInterval(timer);
  const pills=(cur,attr)=>`<div class="nhpl">${["VAL",...cats].map(c=>`<button ${attr}="${c}" class="${c===cur?"on":""}">${c}</button>`).join("")}</div>`;
  const key=c=>c==="VAL"?"fv":c;
  const drawTop=()=>{const c=window.__nhTop||"VAL",k=key(c),T=[...all].sort((a,b)=>b[k]-a[k]||b.fv-a.fv).slice(0,10);
-  BB.innerHTML=`<div class="nhcard"><div class="nhh"><b>Top performers</b><span>${DOFF===0?"tonight":"last night"}</span></div>${pills(c,"data-tp")}<div class="nht"><div class="hr"><span>Player</span>${cats.map(x=>`<span class="${x===c?"on":""}">${x}</span>`).join("")}<span class="${c==="VAL"?"on":""}">VAL</span></div>${T.map(p=>`<div class="tr ${cls(p)}"><span class="pn">${esc(last(p.n))}<small>${esc(p.t)}</small></span>${cats.map(x=>`<span class="${x===c?"on":""}">${p[x]}</span>`).join("")}<span class="vl ${c==="VAL"?"on":""}">+${p.fv}</span></div>`).join("")}</div></div>`;
+  BB.innerHTML=`<div class="nhcard"><div class="nhh"><b>Top performers</b><span>${DOFF===0?"tonight":"last night"}</span></div>${pills(c,"data-tp")}<div class="nht"><div class="hr"><span>Player</span>${cats.map(x=>`<span class="${x===c?"on":""}">${x}</span>`).join("")}<span class="${c==="VAL"?"on":""}">VAL</span></div>${T.map((p,i)=>`<div class="tr ${cls(p)}"><span class="pn"><em class="rk">${i+1}</em>${ph(p.id)?`<img src="${ph(p.id)}" alt="" onerror="this.replaceWith(Object.assign(document.createElement('i'),{}))">`:`<i></i>`}<span class="nm">${esc(last(p.n))}<small>${esc(p.t)}</small></span></span>${cats.map(x=>`<span class="${x===c?"on":""}">${p[x]}</span>`).join("")}<span class="vl ${c==="VAL"?"on":""}">+${p.fv}</span></div>`).join("")}</div></div>`;
   BB.querySelectorAll("[data-tp]").forEach(b=>b.onclick=e=>{e.stopPropagation();window.__nhTop=b.dataset.tp;drawTop()})};
  const drawLead=()=>{const c=window.__nhLd||"PTS",T=[...all].sort((a,b)=>b[c]-a[c]).slice(0,5);
-  L.innerHTML=`<div class="nhcard"><div class="nhh"><b>Leaders</b><span>top 5</span></div><div class="nhpl">${cats.map(x=>`<button data-ld="${x}" class="${x===c?"on":""}">${x}</button>`).join("")}</div>${T.map((p,i)=>`<div class="nhlr ${cls(p)}"><span class="k">${i+1}</span>${ph(p.id)?`<img src="${ph(p.id)}" alt="" onerror="this.remove()">`:`<i></i>`}<b>${esc(p.n)}</b><small>${esc(p.t)}</small><span class="v">${p[c]}</span></div>`).join("")}</div>`;
+  L.innerHTML=`<div class="nhcard"><div class="nhh"><b>Leaders</b><span>top 5</span></div><div class="nhpl">${cats.map(x=>`<button data-ld="${x}" class="${x===c?"on":""}">${x}</button>`).join("")}</div>${T.map((p,i)=>`<div class="nhlr ${cls(p)}"><span class="k">${i+1}</span>${ph(p.id)?`<img src="${ph(p.id)}" alt="" onerror="this.remove()">`:`<i></i>`}<div class="m"><b>${esc(p.n)} <small>${esc(p.t)}</small></b><div class="ls">${[["MIN",p.MIN],["PTS",p.PTS],["REB",p.REB],["AST",p.AST],["STL",p.STL],["BLK",p.BLK],["3PM",p["3PM"]],["FG",p.FG||"0-0"],["FT",p.FT||"0-0"],["TO",p.TO]].map(([k,v])=>`<span class="${k===c?"on":""}"><b>${v}</b>${k}</span>`).join("")}</div></div><span class="v">${p[c]}</span></div>`).join("")}</div>`;
   L.querySelectorAll("[data-ld]").forEach(b=>b.onclick=e=>{e.stopPropagation();window.__nhLd=b.dataset.ld;drawLead()})};
  B.insertBefore(BB,L);drawTop();drawLead()}
 // ---------- League ----------
